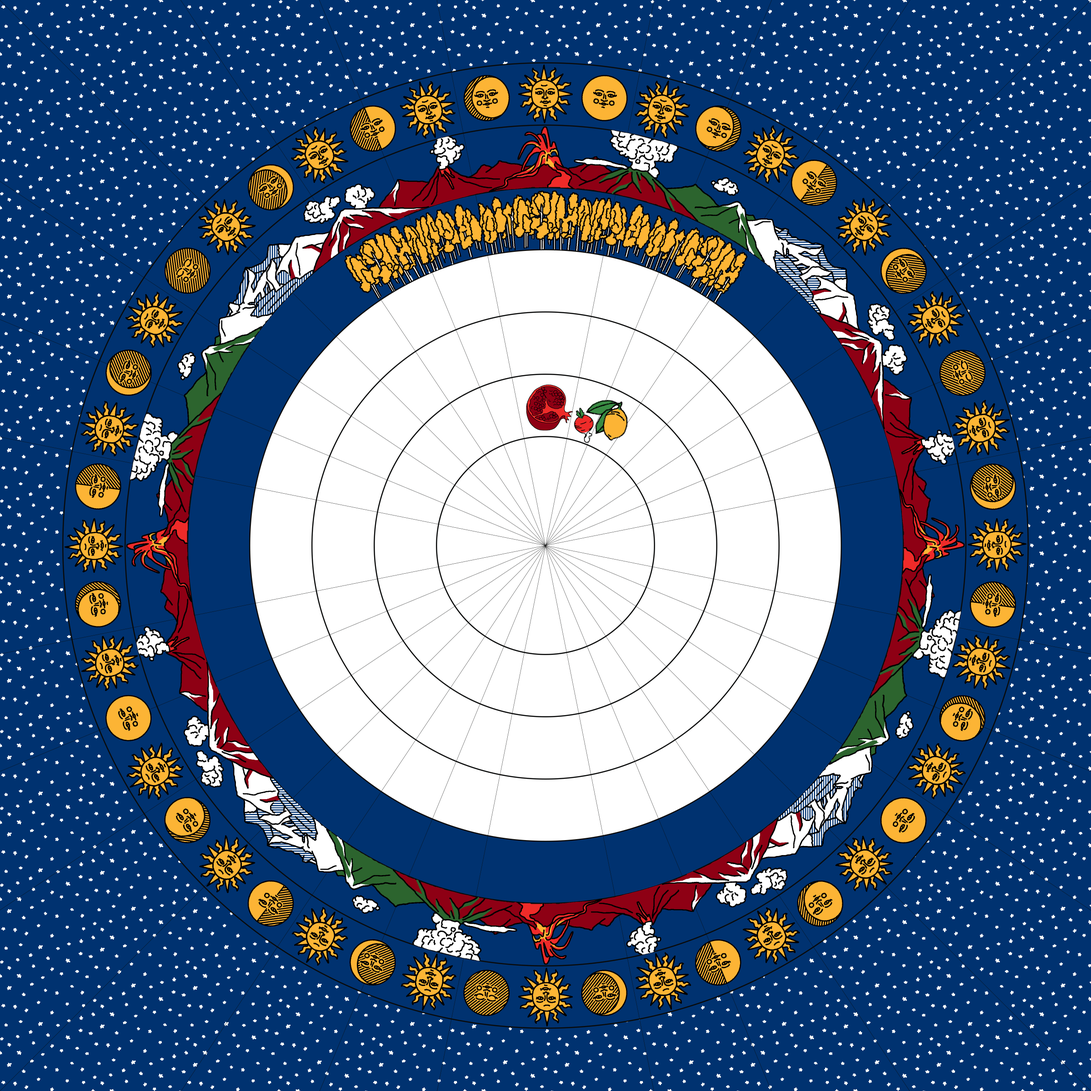
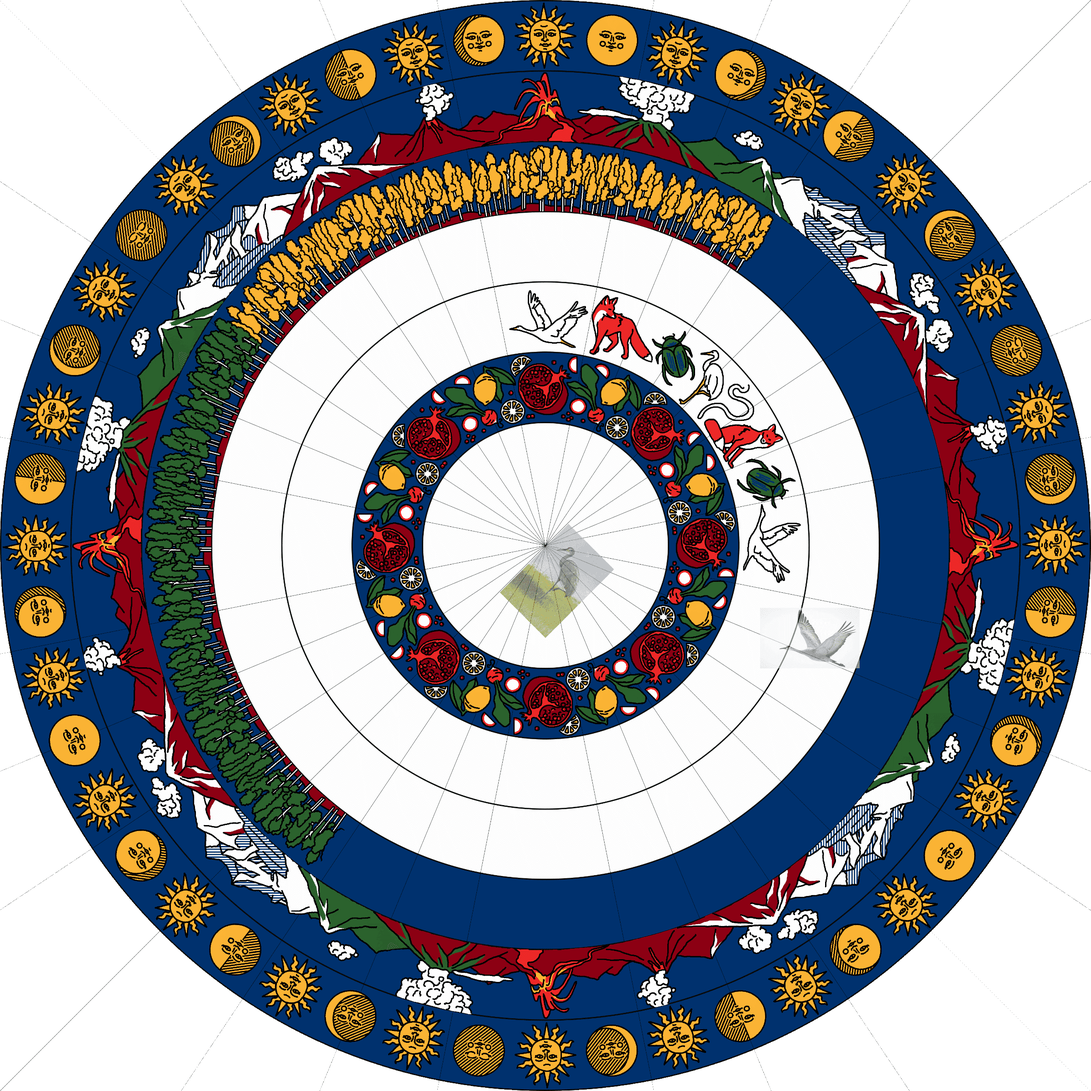
new zoetrope again

diff --git a/src/components/boathouse.js b/src/components/boathouse.js
@@ -6,8 +6,9 @@ import img from "../images/plant.png"
 const Boathouse = ({urls}) => (
   <section id="boathouse">
     <h2>The Boathouse</h2>
-    <img class="interstitial" src={img} alt="Illustration of a sapling against a starry sky"/>
+    <img class="interstitial" src={img} alt="Illustration of a sapling against a starry sky"/> 
     <div class="left">
+      <p>Brooklyn's <a href={urls.boathouseMap} target="_blank" rel="noopener noreferrer">Prospect Park Boathouse</a>, built in 1905, is on the National Register of Historic Places and is a New York City landmark. It stopped renting boats decades ago, was almost demolished, and after several renovations, it now houses New York's Audobon Center.  We like it for being a pretty place in nature that still feels like New York. And it's close enough to our home that we picnic there on summer weekends.</p>
       <h2>Getting there</h2>
       <p>Prospect Park is bigger than Central Park, so please take care to enter the park from the right place. You're looking for <a href={urls.parkEntranceMap} target="_blank" rel="noopener noreferrer">the entrance on the corner of Ocean Avenue and Lincoln Road,</a> in the middle of the east side of the park. Please leave extra time to find the location. Cars cannot enter the park, and the boathouse is a 5-minute walk from the road.</p>
       <h3>Transportation</h3>

diff --git a/src/components/accomodations.js b/src/components/accomodations.js
@@ -10,7 +10,7 @@ const Accomodations = ({ urls }) => (
     <img class="interstitial" src={img} alt="Beekman hotel logo"/>
     <div class="left">
       <p>We recommend the <a href={urls.hotel} target="_blank" rel="noopener noreferrer">The Beekman Hotel</a> in Manhattan, <a href={urls.map} target="_blank" rel="noopener noreferrer">at the base of the Brooklyn Bridge.</a> The hotel was built in 1881 on the site of the Chapel Street theater, which in 1761 staged America's first performace of Hamlet, and in 1766 was destroyed in riots over the Stamp Act.</p>
-      <p>We have reserved a room block with the Beekman, and will provide transportation from there to the wedding. To get the block rate, please <a href={urls.book} target="_blank" rel="noopener noreferrer">book your room</a> (online only) by Wednesday, September 18.</p>
+      <p>We have reserved a room block with the Beekman, and will provide transportation from there to the wedding. To get the block rate, please book your room by Wednesday, September 18. You can <a href={urls.book} target="_blank" rel="noopener noreferrer">book online</a> or by calling <a href='tel:8555233562'>855 523 3562</a> and mentioning our wedding.</p>
     </div>
     <div class="right">
       

diff --git a/src/components/Zoetrope.js b/src/components/Zoetrope.js
@@ -4,10 +4,16 @@ import image from '../images/zoetrope.png'
 
 
 const Zoetrope = () => (
-  <div className={styles.container}>
-    <div className={styles.imgWrap}>
-      {/*<img src={image} alt="zoetrope"/>*/}
-      <div className={styles.zoetrope}></div>
+  <div>
+    <div className={styles.container}>
+      <div className={styles.imgWrap}>
+        {/*<img src={image} alt="zoetrope"/>*/}
+        <div className={styles.stars}></div>
+        <div className={styles.zoetrope}></div>
+      </div>
+    </div>
+    <div className={styles.divider}>
+      <div className={styles.sticker}></div>
     </div>
   </div>
 )

diff --git a/src/pages/index.js b/src/pages/index.js
@@ -3,6 +3,7 @@ import React from "react"
 import Layout from "../components/layout"
 import SEO from "../components/seo"
 
+import Intro from "../components/Intro"
 import Event from "../components/event"
 import Boathouse from "../components/boathouse"
 import Accomodations from "../components/accomodations"
@@ -11,7 +12,8 @@ import Registry from "../components/registry"
 const IndexPage = () => (
   <Layout>
     <SEO title="Anna and Jake's Wedding" keywords={[`Anna`, `Jake`, `Ewing`, `Zien`, `wedding`, `Brooklyn`, `Boathouse`]} />
-    
+
+    <Intro/>
     <Event/>
     <Boathouse/>
     <Accomodations/>

diff --git a/src/components/Intro.js b/src/components/Intro.js
@@ -1,0 +1,16 @@
+import React from "react"
+import Container from "../components/Container"
+// import styles from "./Intro.module.styl"
+
+
+const Intro = () => (
+  <section>
+    <Container>
+      <p>We're so excited you're here! We can't wait to celebrate with you as we open a new chapter in our life together.</p>
+    </Container>
+  </section>
+)
+
+export default Intro
+
+ 
